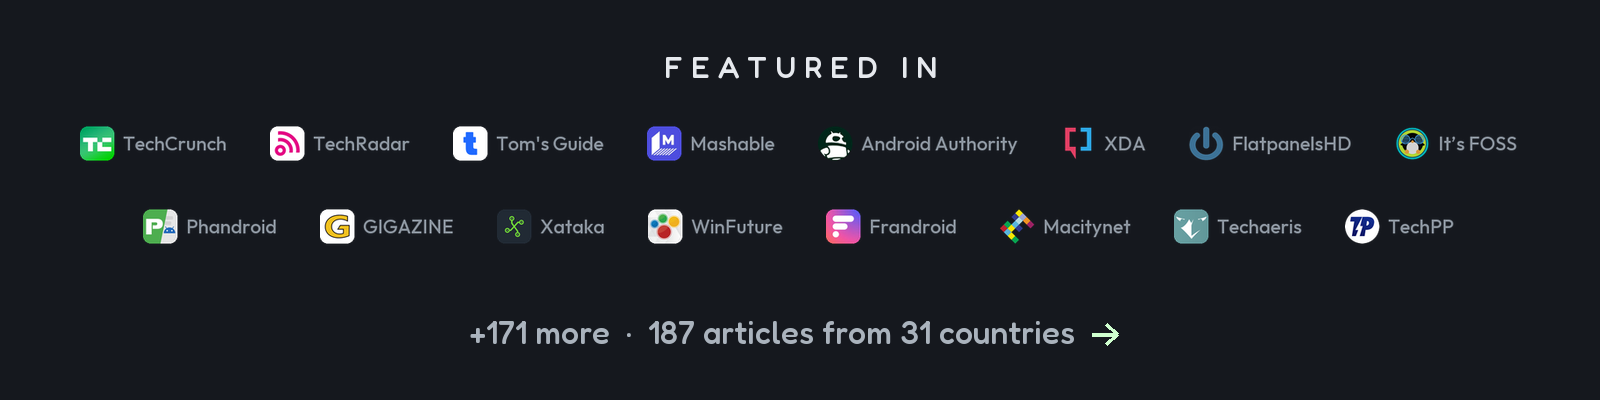
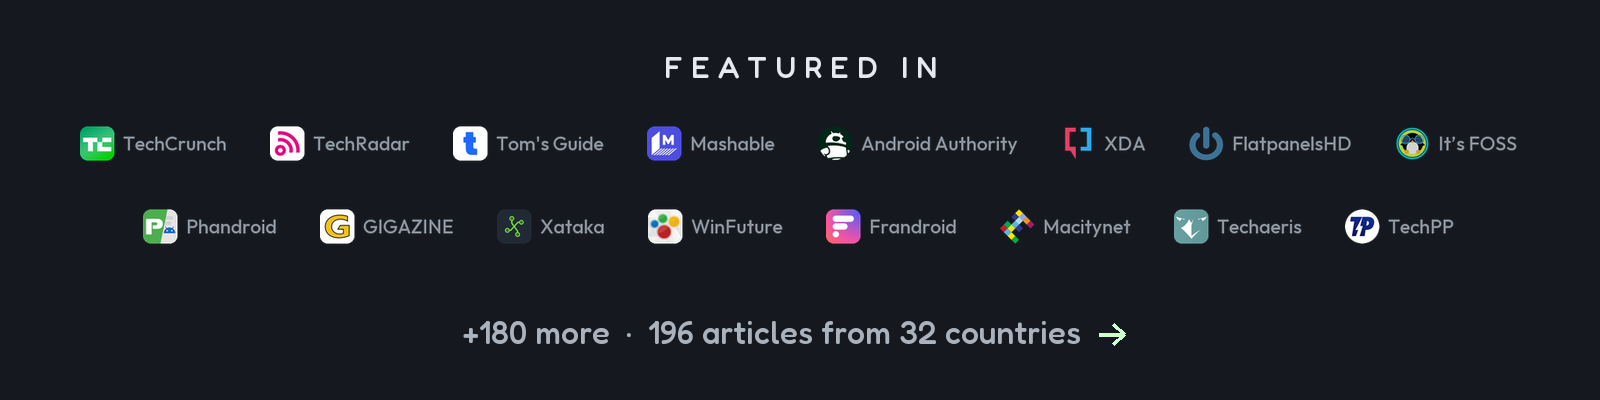
Press: 196 articles from 32 countries and 41 videos; card and Featured-in strip redrawn

Changed region(s): [[0.4062, 0.81, 0.7188, 0.87], [0.2812, 0.78, 0.3438, 0.87]]

diff --git a/tools/readme_featured.py b/tools/readme_featured.py
@@ -13,7 +13,7 @@ except ImportError:
 FONT, OUT = sys.argv[1], sys.argv[2]
 LOGOS = ["techcrunch", "techradar", "tomsguide", "mashable", "androidauthority", "xda", "flatpanelshd", "itsfoss",
          "phandroid", "gigazine", "xataka", "winfuture", "frandroid", "macitynet", "techaeris", "techpp"]
-MORE = "+171 more  ·  187 articles from 31 countries"
+MORE = "+180 more  ·  196 articles from 32 countries"
 W, LH, GAP, ROWGAP, PAD = 1600, 54, 40, 36, 80
 def f(size, wt):
     x = ImageFont.truetype(FONT, size); x.set_variation_by_axes([wt]); return x

diff --git a/docs/PRESS.md b/docs/PRESS.md
@@ -1,10 +1,10 @@
 # CleanYourTV in the press
 
-Every article about CleanYourTV (called tv-vibehack until 19 October 2026) that we could open and check: **187 articles**, 152 of them from outlets in 31 countries, 9 from Spanish-language sites in Latin America and 26 from newsletters, blogs and AI news sites. Headlines are in the language they were published in. Syndicated copies and auto-generated listings are left out. [40 videos](#videos) follow the articles.
+Every article about CleanYourTV (called tv-vibehack until 19 October 2026) that we could open and check: **196 articles**, 158 of them from outlets in 32 countries, 9 from Spanish-language sites in Latin America and 29 from newsletters, blogs and AI news sites. Headlines are in the language they were published in. Syndicated copies and auto-generated listings are left out. [41 videos](#videos) follow the articles.
 
 Wrote about it and not here? Open an issue or a pull request with the link.
 
-[United States](#united-states)&nbsp;18 · [United Kingdom](#united-kingdom)&nbsp;3 · [India](#india)&nbsp;4 · [Denmark](#denmark)&nbsp;1 · [Japan](#japan)&nbsp;2 · [Bangladesh](#bangladesh)&nbsp;1 · [United Arab Emirates](#united-arab-emirates)&nbsp;1 · [France](#france)&nbsp;12 · [Germany](#germany)&nbsp;5 · [Spain](#spain)&nbsp;6 · [Italy](#italy)&nbsp;14 · [Norway](#norway)&nbsp;1 · [Portugal](#portugal)&nbsp;4 · [Czechia](#czechia)&nbsp;1 · [Ukraine](#ukraine)&nbsp;2 · [Greece](#greece)&nbsp;1 · [Egypt](#egypt)&nbsp;5 · [Brazil](#brazil)&nbsp;11 · [Latin America (Spanish-language)](#latin-america-spanish-language)&nbsp;9 · [China](#china)&nbsp;9 · [Taiwan](#taiwan)&nbsp;4 · [Indonesia](#indonesia)&nbsp;12 · [Thailand](#thailand)&nbsp;3 · [Vietnam](#vietnam)&nbsp;4 · [Netherlands](#netherlands)&nbsp;3 · [Poland](#poland)&nbsp;5 · [Russia](#russia)&nbsp;8 · [Belarus](#belarus)&nbsp;2 · [Turkey](#turkey)&nbsp;3 · [Jordan](#jordan)&nbsp;1 · [South Korea](#south-korea)&nbsp;4 · [Australia](#australia)&nbsp;2 · [Online (newsletters, blogs, AI news)](#online-newsletters-blogs-ai-news)&nbsp;26
+[United States](#united-states)&nbsp;19 · [United Kingdom](#united-kingdom)&nbsp;4 · [India](#india)&nbsp;4 · [Denmark](#denmark)&nbsp;1 · [Japan](#japan)&nbsp;2 · [Bangladesh](#bangladesh)&nbsp;1 · [United Arab Emirates](#united-arab-emirates)&nbsp;1 · [France](#france)&nbsp;12 · [Germany](#germany)&nbsp;5 · [Spain](#spain)&nbsp;6 · [Italy](#italy)&nbsp;14 · [Norway](#norway)&nbsp;1 · [Portugal](#portugal)&nbsp;4 · [Czechia](#czechia)&nbsp;1 · [Ukraine](#ukraine)&nbsp;2 · [Greece](#greece)&nbsp;1 · [Egypt](#egypt)&nbsp;5 · [Brazil](#brazil)&nbsp;12 · [Latin America (Spanish-language)](#latin-america-spanish-language)&nbsp;9 · [China](#china)&nbsp;10 · [Taiwan](#taiwan)&nbsp;4 · [Indonesia](#indonesia)&nbsp;12 · [Thailand](#thailand)&nbsp;3 · [Vietnam](#vietnam)&nbsp;4 · [Netherlands](#netherlands)&nbsp;3 · [Poland](#poland)&nbsp;5 · [Russia](#russia)&nbsp;9 · [Belarus](#belarus)&nbsp;2 · [Turkey](#turkey)&nbsp;3 · [Jordan](#jordan)&nbsp;1 · [South Korea](#south-korea)&nbsp;4 · [Australia](#australia)&nbsp;2 · [Pakistan](#pakistan)&nbsp;1 · [Online (newsletters, blogs, AI news)](#online-newsletters-blogs-ai-news)&nbsp;29
 
 ## United States
 
@@ -28,6 +28,7 @@ Wrote about it and not here? Open an issue or a pull request with the link.
 | PCWorld | [Please don't use AI hacks to debloat your TV](https://www.pcworld.com/article/3266473/please-dont-use-ai-hacks-to-debloat-your-tv.html) | 22&nbsp;Oct |
 | ExtremeTech | [Developers Are Dumbing Down Their Smart TVs](https://www.extremetech.com/electronics/developers-are-dumbing-down-their-smart-tvs) | 21&nbsp;Oct |
 | AdExchanger | [So Begins ChatGPT’s Endless Ad Iterations; YouTube Affiliates With AliExpress](https://www.adexchanger.com/daily-news-roundup/tuesday-20102026/) | 20&nbsp;Oct |
+| The Cool Down | [People are using AI to make smart TVs do 'what you paid for'](https://www.thecooldown.com/green-tech/smart-tv-ai-custom-launchers-user-control/) | 23&nbsp;Oct |
 
 ## United Kingdom
 
@@ -36,6 +37,7 @@ Wrote about it and not here? Open an issue or a pull request with the link.
 | TechRadar | [‘Your TV should do what you paid for’: People are so sick of ads, trackers and bloat in their smart TVs that they're using AI to vibe code them away](https://www.techradar.com/entertainment/streaming/your-tv-should-do-what-you-paid-for-people-are-vibe-coding-apps-to-banish-ads-from-their-smart-tvs-and-android-tv-and-its-catching-on) | 20&nbsp;Oct |
 | Tech Times | [Man Asks AI with a Simple Prompt 'Can You Hack This?' to Fix His TV: Now Everyone Wants to Copy Him](https://www.techtimes.co.uk/ai-smart-tv-bloatware-performance-fix-1809233) | 19&nbsp;Oct |
 | Tech Times | [Owners Are Using AI to Bring Abandoned Smart Devices Back to Life and Strip Out Ads](https://www.techtimes.co.uk/ai-tools-remove-smart-tv-ads-bloatware-1809318) | 22&nbsp;Oct |
+| Tech Times | [Fed up With Smart TV Ads, People Are Using AI To Remove Them and Take Back Control](https://www.techtimes.co.uk/ai-tools-customize-smart-tv-home-screens-1809370) | 23&nbsp;Oct |
 
 ## India
 
@@ -187,6 +189,7 @@ Wrote about it and not here? Open an issue or a pull request with the link.
 | Showmetech | [TV vibecoding: usuários estão usando IA para remover anúncios e apps de suas smart TVs](https://www.showmetech.com.br/ia-remover-anuncios-smart-tvs-vibe-coding/) | 20&nbsp;Oct |
 | SpaceMoney | [Usuários recorrem a IA para enxugar smart TVs Android](https://www.spacemoney.com.br/tecnologia/ia-smart-tvs-android/) | 20&nbsp;Oct |
 | Boa Informação | [As pessoas estão usando IA para tornar suas smart TVs burras novamente](https://boainformacao.com.br/2026/10/as-pessoas-estao-usando-ia-para-tornar-suas-smart-tvs-burras-novamente/) | 19&nbsp;Oct |
+| Tecnoblog | [Usuários recorrem à IA para remover anúncios e mudar interfaces de TVs](https://tecnoblog.net/noticias/usuarios-usam-ia-para-remover-anuncios-e-mudar-interfaces-de-tvs/) | 19&nbsp;Oct |
 
 ## Latin America (Spanish-language)
 
@@ -215,6 +218,7 @@ Wrote about it and not here? Open an issue or a pull request with the link.
 | AI产品库 AIProductHub | [CleanYourTV - 开源电视去广告启动器，一键替换桌面](https://aiproducthub.cn/launch/p/70162.html) | 20&nbsp;Oct |
 | 搜狐 Sohu | [安卓 TV 去广告开源工具走红，电视厂商广告收入承压](https://timeline.sohu.com/news/OD888PpI4v) | – |
 | 流媒体网 lmtw | [电视厂商的财路，被开源软件断了](https://lmtw.com/mzw/content/detail/id/259307) | – |
+| IT之家 IT Home | [智能电视广告引不满，部分用户借助 Claude 等 AI 智能体清理广告和预装应用](https://www.ithome.com/1/015/598.htm) | 20&nbsp;Oct |
 
 ## Taiwan
 
@@ -289,6 +293,7 @@ Wrote about it and not here? Open an issue or a pull request with the link.
 | PlayGround.ru | [Энтузиасты начали использовать ИИ для очистки телевизоров от встроенной рекламы и замедляющего софта](https://www.playground.ru/misc/news/entuziasty_nachali_ispolzovat_ii_dlya_ochistki_televizorov_ot_vstroennoj_reklamy_i_zamedlyayuschego_softa-1883066) | 19&nbsp;Oct |
 | iXBT.com | [Полезный вайбкодинг: DeepSeek и Claude сделали приложения, которые убирают с телевизоров рекламу и ненужные приложения](https://www.ixbt.com/news/2026/10/20/poleznyi-vaibkoding-deepseek-i-claude-sdelali-prilozeniia-kotorye-ubiraiut-s-televizorov-reklamu-i-nenuznye-prilozeniia.html) | 20&nbsp;Oct |
 | Habr | [Представлен открытый вайбкод-проект TV VibeHac для убирания лагов на умных ТВ из-за мусорных приложений](https://habr.com/ru/posts/1095896/) | 18&nbsp;Oct |
+| AdIndex | [Расширения для удаления рекламы в Smart TV набирают популярность в США](https://adindex.ru/news/tendencies/2026/10/20/350100.phtml) | 20&nbsp;Oct |
 
 ## Belarus
 
@@ -327,6 +332,12 @@ Wrote about it and not here? Open an issue or a pull request with the link.
 | ChannelNews | [Fed Up With Smart TV Ads? Users Are Turning To AI To Fight Back](https://www.channelnews.com.au/fed-up-with-smart-tv-ads-users-are-turning-to-ai-to-fight-back/) | 22&nbsp;Oct |
 | techAU | [People are using AI to rewrite their smart TV software in 15 minutes and remove all the bloatware](https://techau.com.au/people-are-using-ai-to-rewrite-their-smart-tv-software-in-15-minutes-and-remove-all-the-bloatware/) | 20&nbsp;Oct |
 
+## Pakistan
+
+| Outlet | Article | Date |
+| --- | --- | --- |
+| ProPakistani | [People Are Using AI to Make Smart TVs Faster, Safer, and Ad-Free](https://propakistani.pk/2026/10/21/people-are-using-ai-to-make-smart-tvs-faster-safer-and-ad-free/) | 21&nbsp;Oct |
+
 ## Online (newsletters, blogs, AI news)
 
 | Outlet | Article | Date |
@@ -357,52 +368,56 @@ Wrote about it and not here? Open an issue or a pull request with the link.
 | Jeff Bruchado | [tv-vibehack in 2026: How to Remove Ads From Your Android TV With ADB](https://jeffbruchado.com.br/en/blog/tv-vibehack-android-tv-no-ads-debloat-adb-2026) | 19&nbsp;Oct |
 | NextAiBreakout | [Claude Code Android TV Debloat: cleanyourtv Explained](https://nextaibreakout.com/blog/claude-code-android-tv-debloat/) | 19&nbsp;Oct |
 | Blockonomi | [Smart TV Owners Use Claude Code to Remove Ads and Tracking Software](https://blockonomi.com/smart-tv-owners-use-claude-code-to-remove-ads-and-tracking-software/) | 21&nbsp;Oct |
+| AI Weekly | [Vibe coders use Claude Code to strip ads from smart TVs](https://aiweekly.co/alerts/vibe-coders-use-claude-code-to-strip-ads-from-smart-tvs) | 20&nbsp;Oct |
+| AI Weekly | [Claude Code sert à vider les Smart TV Xiaomi et TCL de leurs pubs](https://aiweekly.co/fr/alerts/claude-code-sert-vider-les-smart-tv-xiaomi-et-tcl-de-leurs-pubs) | 19&nbsp;Oct |
+| AIchief | [AI Agents Empower Users to Dumb Down Smart TVs and Remove Bloatware](https://aichief.com/news/ai-agents-empower-users-to-dumb-down-smart-tvs-and-remove-bloatware/) | 19&nbsp;Oct |
 
 ## Videos
 
-On YouTube, newest first; views as of 23 Oct.
+On YouTube, newest first; views as of 24 Oct.
 
 | Channel | Video | Date | Views |
 | --- | --- | --- | --- |
-| NUANIA | [ทีวีช้า กระตุก? แก้ได้ด้วย AI &#124; Clean Your TV ปิดแอปขยะ Android TV ไม่ต้อง root](https://www.youtube.com/watch?v=Sh29R9v2G-4) | 22&nbsp;Oct | 1,438 |
-| AISeeKing | [People are using this Claude Code Repo to REVERSE ENGINEER Their Android TVs!](https://www.youtube.com/watch?v=XuVY5cV7o1w) | 22&nbsp;Oct | 779 |
-| Tech Fire | [I Removed Every Ad From My TV With One AI Prompt](https://www.youtube.com/watch?v=MFY88kCiUNI) | 22&nbsp;Oct | 392 |
-| Repo_AI_Review | [CleanYourTV: 22K Stars Insane Apple TV Hack [2026]](https://www.youtube.com/watch?v=BhguEwXKOyE) | 22&nbsp;Oct | 128 |
-| Simply AI | [Claude Code Wrote This Android TV a New Home Screen With No Ads](https://www.youtube.com/watch?v=NIp4iX7kipw) | 22&nbsp;Oct | 119 |
-| AI Inside | [AI Agents Are Stripping Advertising From Smart TVs](https://www.youtube.com/watch?v=vUfdRl6ASYY) | 22&nbsp;Oct | 58 |
-| 机器之心 | [Github 1.3万星！AI 干掉电视广告，秒变干净苹果风](https://www.youtube.com/watch?v=Z04OH8aEZYc) | 22&nbsp;Oct | 57 |
-| LookOnThisGit | [Debloat Your TV: Get an Apple TV UI on Android 📺](https://www.youtube.com/watch?v=Bvivx5aBStg) | 22&nbsp;Oct | 28 |
-| DY Playbook | [How to Remove Ads From Your Smart TV With AI](https://www.youtube.com/watch?v=WPPJ3H4OtYg) | 22&nbsp;Oct | 20 |
-| Bryam CIO (bbuestan) | [Smart TV: la IA le QUITA los anuncios en 15 min](https://www.youtube.com/watch?v=wg0N8AkK_Zg) | 22&nbsp;Oct | 6 |
-| Github Trends | [Turn Any Android TV Into an Apple TV Style Home Over Wi-Fi: cleanyourtv Deep Dive](https://www.youtube.com/watch?v=apE40gXzz2A) | 22&nbsp;Oct | 1 |
-| Lukas Margerie | [I Gave Claude Code Control of My TV](https://www.youtube.com/watch?v=i0ytu6k8uac) | 21&nbsp;Oct | 85,578 |
-| n8nWithPatrick | [CleanYourTV: Debloat Any Android TV With One Prompt (16.5k Stars)](https://www.youtube.com/watch?v=UjJwamPBEAg) | 21&nbsp;Oct | 2,245 |
-| Barely Bullish | [Your TV Is Cheap Because of Ads. Claude Code Turns Them Off.](https://www.youtube.com/watch?v=yvg55BfTT9Y) | 21&nbsp;Oct | 73 |
-| Farid Talks AI & Tech | [His Parents' TV Showed an Ad Before Netflix. So He Let Claude In.](https://www.youtube.com/watch?v=kMRHnluPZds) | 21&nbsp;Oct | 58 |
-| No Humans Needed | [[EN 10/21] Killing TV ads with Claude Code: 11.9K stars &#124; AI in the Field · Nohumans, Oct 21, 2026](https://www.youtube.com/watch?v=mYdDj3tXqFA) | 21&nbsp;Oct | 38 |
-| The Agent Workshop | [I Removed Every Ad From My Smart TV With AI (No Root)](https://www.youtube.com/watch?v=GVRMF4pULVk) | 21&nbsp;Oct | 36 |
-| syahdandev | [Orang Ramai Suruh Claude Code Buang Iklan dari Smart TV, Ribuan Ikut Coba](https://www.youtube.com/watch?v=dinwm7aYehQ) | 21&nbsp;Oct | 22 |
-| atyourfingertips | [Your TV Is Watching You. So People Got AI to Fight Back.](https://www.youtube.com/watch?v=DQPSM5gK2TU) | 21&nbsp;Oct | 21 |
-| Repo Rush | [10 New GitHub Repos You Should Know (An AI Uses a Real iPhone & More)](https://www.youtube.com/watch?v=KYk-cKF1g6Y) | 21&nbsp;Oct | 20 |
-| 人間不要新聞 | [【現場10/21】テレビの広告をClaude Codeで消すの、3日半でスター1.19万｜AIの現場 2026年10月21日](https://www.youtube.com/watch?v=JCBI-WfWBpU) | 21&nbsp;Oct | 12 |
-| Нейро-Радио | [Нейро-Радио, 21 октября: Claude придумал белки против яда скорпиона](https://www.youtube.com/watch?v=r__WxDOVjmM) | 21&nbsp;Oct | 2 |
-| Navy Geeks | [I Removed Every Ad From My Google TV using Claude and No Root](https://www.youtube.com/watch?v=dpOjBS1FAxg) | 20&nbsp;Oct | 141,757 |
-| AwesomeFOSS | [CleanYourTV: 6,000 Stars in 3 Days to Kill Smart TV Ads](https://www.youtube.com/watch?v=-u2FuQZ9HsU) | 20&nbsp;Oct | 9,983 |
-| Prism Labs | [CleanYourTV Strips Ads From 54 Smart TVs Free](https://www.youtube.com/watch?v=lHonkeutGvg) | 20&nbsp;Oct | 5,291 |
-| I HAVE ADHD AND FOMO | [GPT-6 COBOL Migration, DeepSeek DeepInfer & CleanYourTV &#124; AX Trend Deep Dive](https://www.youtube.com/watch?v=NZiuLXyLwWQ) | 20&nbsp;Oct | 151 |
-| AI&Other-Tech | [People Are Using AI to Make Their Smart TVs Dumb Again](https://www.youtube.com/watch?v=dGAoxdpJ6ik) | 20&nbsp;Oct | 151 |
-| The Output | [People Are Using AI Agents to Make Their Smart TVs Dumb Again. Your TV Already Has a Safer Switch](https://www.youtube.com/watch?v=7YJC7yb4GVY) | 20&nbsp;Oct | 148 |
-| Gcode | [Mi TV Makeover: No Ads, Custom Home Screen & Live Screensavers](https://www.youtube.com/watch?v=NyLS0_wmsOs) | 20&nbsp;Oct | 91 |
-| Ray Wang | [电视首页全是广告？一句话让 AI 帮你关掉（不卸载、随时还原）](https://www.youtube.com/watch?v=ky-x7RSKXEA) | 20&nbsp;Oct | 71 |
-| Dev4Code | [Android ADB Wireless Pairing Explained](https://www.youtube.com/watch?v=w6z_NKvI8T0) | 20&nbsp;Oct | 13 |
-| Syntax | [Everyone is hacking their TV ⟡ VoidZero Framework Open Sourced ⟡ OpenCode Hacked ⌁ Syntax Weekly ⌁](https://www.youtube.com/watch?v=qKyFi6j1XpA) | 19&nbsp;Oct | 77,341 |
-| TechCodeRealm | [AI Is Removing Ads From Smart TVs! 📺 Make Android TV Faster & Cleaner](https://www.youtube.com/watch?v=LIV9FPkJO3U) | 19&nbsp;Oct | 14,541 |
-| shang peng | [1. 智能电视开机广告多？免拆机改Apple TV极简纯黑桌面开源工具 &#124; CleanYourTV Open Source](https://www.youtube.com/watch?v=ca8Jepqhahs) | 19&nbsp;Oct | 2,431 |
-| Next Token | [Meta's 816B Open Model vs DeepSeek: Same Score, 3.5× Cheaper &#124; Last Week in AI](https://www.youtube.com/watch?v=_hQsiqyk824) | 19&nbsp;Oct | 271 |
-| I HAVE ADHD AND FOMO | [Claude Code's Triple Play: Fork Subagents, TV Hacks, and a Public Benefit Fund &#124; AX Trend Deep Dive](https://www.youtube.com/watch?v=Fq4WBSDFOy4) | 19&nbsp;Oct | 69 |
-| Games I Played | [Gaming News Malayalam Episode 3](https://www.youtube.com/watch?v=PgvWUs6BRM0) | 19&nbsp;Oct | 26 |
-| TechPP | [How to debloat your Android TV with Claude Code](https://www.youtube.com/watch?v=YAaxqBvd1sY) | 18&nbsp;Oct | 94,226 |
-| Github Awesome | [GitHub Trending Weekly #54: git-ai, sill, Filee, Tracely-ai, Snitch, web-ocean, earshot, net-merge](https://www.youtube.com/watch?v=PYgTElh4CSk) | 18&nbsp;Oct | 12,207 |
-| Picoito | [An AI cleared the ads from his parents' Android TV](https://www.youtube.com/watch?v=_zB3OufofGE) | 18&nbsp;Oct | 3,715 |
+| Tech Fire | [I Removed Every Ad From My TV With One AI Prompt](https://www.youtube.com/watch?v=MFY88kCiUNI) | 22&nbsp;Oct | 26,312 |
+| NUANIA | [ทีวีช้า กระตุก? แก้ได้ด้วย AI &#124; Clean Your TV ปิดแอปขยะ Android TV ไม่ต้อง root](https://www.youtube.com/watch?v=Sh29R9v2G-4) | 22&nbsp;Oct | 18,823 |
+| AISeeKing | [People are using this Claude Code Repo to REVERSE ENGINEER Their Android TVs!](https://www.youtube.com/watch?v=XuVY5cV7o1w) | 22&nbsp;Oct | 8,410 |
+| 机器之心 | [Github 1.3万星！AI 干掉电视广告，秒变干净苹果风](https://www.youtube.com/watch?v=Z04OH8aEZYc) | 22&nbsp;Oct | 2,700 |
+| Simply AI | [Claude Code Wrote This Android TV a New Home Screen With No Ads](https://www.youtube.com/watch?v=NIp4iX7kipw) | 22&nbsp;Oct | 699 |
+| Repo_AI_Review | [CleanYourTV: 22K Stars Insane Apple TV Hack [2026]](https://www.youtube.com/watch?v=BhguEwXKOyE) | 22&nbsp;Oct | 525 |
+| LookOnThisGit | [Debloat Your TV: Get an Apple TV UI on Android 📺](https://www.youtube.com/watch?v=Bvivx5aBStg) | 22&nbsp;Oct | 455 |
+| Github Trends | [Turn Any Android TV Into an Apple TV Style Home Over Wi-Fi: cleanyourtv Deep Dive](https://www.youtube.com/watch?v=apE40gXzz2A) | 22&nbsp;Oct | 391 |
+| AI Inside | [AI Agents Are Stripping Advertising From Smart TVs](https://www.youtube.com/watch?v=vUfdRl6ASYY) | 22&nbsp;Oct | 155 |
+| DY Playbook | [How to Remove Ads From Your Smart TV With AI](https://www.youtube.com/watch?v=WPPJ3H4OtYg) | 22&nbsp;Oct | 139 |
+| Bryam CIO (bbuestan) | [Smart TV: la IA le QUITA los anuncios en 15 min](https://www.youtube.com/watch?v=wg0N8AkK_Zg) | 22&nbsp;Oct | 58 |
+| Lukas Margerie | [I Gave Claude Code Control of My TV](https://www.youtube.com/watch?v=i0ytu6k8uac) | 21&nbsp;Oct | 185,816 |
+| n8nWithPatrick | [CleanYourTV: Debloat Any Android TV With One Prompt (16.5k Stars)](https://www.youtube.com/watch?v=UjJwamPBEAg) | 21&nbsp;Oct | 4,397 |
+| Farid Talks AI & Tech | [His Parents' TV Showed an Ad Before Netflix. So He Let Claude In.](https://www.youtube.com/watch?v=kMRHnluPZds) | 21&nbsp;Oct | 194 |
+| The Agent Workshop | [I Removed Every Ad From My Smart TV With AI (No Root)](https://www.youtube.com/watch?v=GVRMF4pULVk) | 21&nbsp;Oct | 111 |
+| Barely Bullish | [Your TV Is Cheap Because of Ads. Claude Code Turns Them Off.](https://www.youtube.com/watch?v=yvg55BfTT9Y) | 21&nbsp;Oct | 87 |
+| No Humans Needed | [[EN 10/21] Killing TV ads with Claude Code: 11.9K stars &#124; AI in the Field · Nohumans, Oct 21, 2026](https://www.youtube.com/watch?v=mYdDj3tXqFA) | 21&nbsp;Oct | 55 |
+| 人間不要新聞 | [【現場10/21】テレビの広告をClaude Codeで消すの、3日半でスター1.19万｜AIの現場 2026年10月21日](https://www.youtube.com/watch?v=JCBI-WfWBpU) | 21&nbsp;Oct | 37 |
+| atyourfingertips | [Your TV Is Watching You. So People Got AI to Fight Back.](https://www.youtube.com/watch?v=DQPSM5gK2TU) | 21&nbsp;Oct | 30 |
+| syahdandev | [Orang Ramai Suruh Claude Code Buang Iklan dari Smart TV, Ribuan Ikut Coba](https://www.youtube.com/watch?v=dinwm7aYehQ) | 21&nbsp;Oct | 24 |
+| Repo Rush | [10 New GitHub Repos You Should Know (An AI Uses a Real iPhone & More)](https://www.youtube.com/watch?v=KYk-cKF1g6Y) | 21&nbsp;Oct | 24 |
+| Нейро-Радио | [Нейро-Радио, 21 октября: Claude придумал белки против яда скорпиона](https://www.youtube.com/watch?v=r__WxDOVjmM) | 21&nbsp;Oct | 4 |
+| Navy Geeks | [I Removed Every Ad From My Google TV using Claude and No Root](https://www.youtube.com/watch?v=dpOjBS1FAxg) | 20&nbsp;Oct | 223,627 |
+| AwesomeFOSS | [CleanYourTV: 6,000 Stars in 3 Days to Kill Smart TV Ads](https://www.youtube.com/watch?v=-u2FuQZ9HsU) | 20&nbsp;Oct | 13,538 |
+| Prism Labs | [CleanYourTV Strips Ads From 54 Smart TVs Free](https://www.youtube.com/watch?v=lHonkeutGvg) | 20&nbsp;Oct | 6,425 |
+| Alta Media | [CleanYourTV — Remove TV Ads & Bloatware, Get an Apple TV-Style Home (Full Tutorial)](https://www.youtube.com/watch?v=oLasOtMhiBE) | 20&nbsp;Oct | 571 |
+| The Output | [People Are Using AI Agents to Make Their Smart TVs Dumb Again. Your TV Already Has a Safer Switch](https://www.youtube.com/watch?v=7YJC7yb4GVY) | 20&nbsp;Oct | 255 |
+| AI&Other-Tech | [People Are Using AI to Make Their Smart TVs Dumb Again](https://www.youtube.com/watch?v=dGAoxdpJ6ik) | 20&nbsp;Oct | 236 |
+| Gcode | [Mi TV Makeover: No Ads, Custom Home Screen & Live Screensavers](https://www.youtube.com/watch?v=NyLS0_wmsOs) | 20&nbsp;Oct | 179 |
+| I HAVE ADHD AND FOMO | [GPT-6 COBOL Migration, DeepSeek DeepInfer & CleanYourTV &#124; AX Trend Deep Dive](https://www.youtube.com/watch?v=NZiuLXyLwWQ) | 20&nbsp;Oct | 160 |
+| Ray Wang | [电视首页全是广告？一句话让 AI 帮你关掉（不卸载、随时还原）](https://www.youtube.com/watch?v=ky-x7RSKXEA) | 20&nbsp;Oct | 93 |
+| Dev4Code | [Android ADB Wireless Pairing Explained](https://www.youtube.com/watch?v=w6z_NKvI8T0) | 20&nbsp;Oct | 15 |
+| Syntax | [Everyone is hacking their TV ⟡ VoidZero Framework Open Sourced ⟡ OpenCode Hacked ⌁ Syntax Weekly ⌁](https://www.youtube.com/watch?v=qKyFi6j1XpA) | 19&nbsp;Oct | 85,282 |
+| TechCodeRealm | [AI Is Removing Ads From Smart TVs! 📺 Make Android TV Faster & Cleaner](https://www.youtube.com/watch?v=LIV9FPkJO3U) | 19&nbsp;Oct | 16,896 |
+| shang peng | [1. 智能电视开机广告多？免拆机改Apple TV极简纯黑桌面开源工具 &#124; CleanYourTV Open Source](https://www.youtube.com/watch?v=ca8Jepqhahs) | 19&nbsp;Oct | 3,725 |
+| Next Token | [Meta's 816B Open Model vs DeepSeek: Same Score, 3.5× Cheaper &#124; Last Week in AI](https://www.youtube.com/watch?v=_hQsiqyk824) | 19&nbsp;Oct | 340 |
+| I HAVE ADHD AND FOMO | [Claude Code's Triple Play: Fork Subagents, TV Hacks, and a Public Benefit Fund &#124; AX Trend Deep Dive](https://www.youtube.com/watch?v=Fq4WBSDFOy4) | 19&nbsp;Oct | 80 |
+| Games I Played | [Gaming News Malayalam Episode 3](https://www.youtube.com/watch?v=PgvWUs6BRM0) | 19&nbsp;Oct | 27 |
+| TechPP | [How to debloat your Android TV with Claude Code](https://www.youtube.com/watch?v=YAaxqBvd1sY) | 18&nbsp;Oct | 138,794 |
+| Github Awesome | [GitHub Trending Weekly #54: git-ai, sill, Filee, Tracely-ai, Snitch, web-ocean, earshot, net-merge](https://www.youtube.com/watch?v=PYgTElh4CSk) | 18&nbsp;Oct | 12,591 |
+| Picoito | [An AI cleared the ads from his parents' Android TV](https://www.youtube.com/watch?v=_zB3OufofGE) | 18&nbsp;Oct | 3,926 |
 
 [Back to the README](../README.md)

diff --git a/README.md b/README.md
@@ -19,7 +19,7 @@
 </p>
 
 <p align="center">
-  <a href="docs/PRESS.md"><img src="docs/card.jpg" alt="260 TV models · 77 brands · 25 languages · 497 KB launcher. Featured in TechCrunch, TechRadar, Tom's Guide, Mashable, Android Authority, XDA, FlatpanelsHD, It's FOSS, Phandroid, GIGAZINE, Xataka, WinFuture, Frandroid, Macitynet, Techaeris, TechPP and 171 more: 187 articles from 31 countries. Before: stock Google TV home with a sponsored ad. After: the Clean Your TV launcher." width="800"></a>
+  <a href="docs/PRESS.md"><img src="docs/card.jpg" alt="260 TV models · 77 brands · 25 languages · 497 KB launcher. Featured in TechCrunch, TechRadar, Tom's Guide, Mashable, Android Authority, XDA, FlatpanelsHD, It's FOSS, Phandroid, GIGAZINE, Xataka, WinFuture, Frandroid, Macitynet, Techaeris, TechPP and 180 more: 196 articles from 32 countries. Before: stock Google TV home with a sponsored ad. After: the Clean Your TV launcher." width="800"></a>
 </p>
 
 **The viral tweet:** [x.com/gathint/status/2111379569030939102](https://x.com/gathint/status/2111379569030939102)
